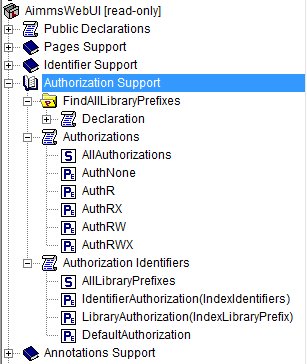
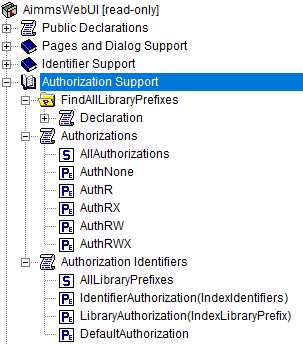
Changed structure for Dialog pages and Webui Lib section.

diff --git a/webui/library.rst b/webui/library.rst
@@ -30,25 +30,15 @@ Request Queue Declarations is used to manage the number of requests from WebUI.
 Public Pages Support Procedures:
 
 * GetAllPages - This procedure is runs everytime a page, side panel or dialog page is added to the page manager, which inturn updates the sets and identifiers in the Public Pages Support Declarations.
-* SidePanelOpen(pageId) - This procedure is used to open side panels via the model with respective pageIds. 
-* PageOpen(pageId) - This procedure is used to open/navigate to other pages in the application via the model. 
+* SidePanelOpen(pageId) - This procedure is used to open side panels via the model with respective pageIds as the argument. 
+* PageOpen(pageId) - This procedure is used to open/navigate to other pages in the application via the model, by passing the respecive pageId as the argument. 
+* OpenExternalLink(url) - This procedure is used to open external links, by passing the URL as the argument. These links will open in a new tab in the browser.
 
 Public Dialog Support Procedures:  
 
-* RequestPerformWebUIDialog(title,message,actions,onDone)
-* `DialogPageOpen(pageId,title,actions,onDone) <page-manager.html#configuring-dialog-pages>`_ - This procedure is used to open dialog pages via the model, either by clicking on a button or some interaction in the model.
+* `RequestPerformWebUIDialog(title,message,actions,onDone) <#requestperformwebuidialog>`_ - This procedure is used to display dialog message, such as alerts or warnings.
+* `DialogPageOpen(pageId,title,actions,onDone) <#dialogpageopen>`_ - This procedure is used to open `dialog pages <page-manager.html#dialog-pages>`_ via the model, either by clicking on a button or some interaction in the model.
 * ResetWebUIDialogs - This procedure emptys the RequestQueue and the Requests set in the Request Queue Declarations. 
-
-
-Authorization Support
-=====================
-
-The WebUI System Library includes a section called "Authorization Support" containing identifier declarations which can be used to introduce authorization into your WebUI app:
-
-.. image:: images/AuthorizationSupportSection.png
-    :align: center
-
-The usage of these identifiers is discussed in the `Authorizing model content for use in the WebUI <creating.html>`_ section of this documentation.
 
 requestPerformWebUIDialog
 =========================
@@ -83,3 +73,44 @@ Remarks
 
 * When you just want to send a message to the user, you should provide a single action (e.g. :token:`Actions := {'OK'}`) and you can use :token:`''` for the :token:`onDone` argument. In this case, no procedure is called, and the user can just close the 'dialog' by pressing the single action (or pressing the return/space key, which will press the default (last, highlighted) button).
 * You can use a translation file (e.g. ‘WebUI/resources/languages/<dialog_actions>.properties’) to provide translations for the various internal action names, containing, for example: :token:`discard-and-continue = Discard and continue`.
+
+
+DialogPageOpen
+==============
+
+You can call the procedure :token:`webui::DialogPageOpen` to invoke a `dialog page <page-manager.html#dialog-pages>`_ in a WebUI page. Along with opening the dialog page you can also configure the title and the buttons with a specific callback.
+
+Arguments
+---------
+
+This procedure has the following aguments:
+
+* :token:`pageId`: When a dialog page is created it is has a unique pageId. You can find all the dialog pageIds in the set AllDialogPages under the Public Pages Support Declarations in the `Pages and Dialog Support section <library.html#pages-and-dialog-support-section>`_ .   
+* :token:`title`: A string parameter which contains the text to be displayed as the title of the dialog box. If this is left blank, i.e "", it will display the dialog page name given during creation by default.
+* :token:`actions`: A set of custom actions. The elements of this set are represented as buttons in the message dialog and their text is the same as the action names. When an action is selected (button is clicked), it invokes the onDone procedure with the corresponding action as an argument. If this set is empty, the buttons will have "Cancel" and "OK" by default respectively. 
+* :token:`onDone`: A reference to a procedure in the set AllProcedures. The procedure should have a single input string parameter as argument. When a user selects an action, the onDone procedure is invoked with the action name as its argument.
+
+
+Example
+-------
+
+As an example, the following code will display the dialog in the picture below it and will call the procedure :token:`PerformAction(TheAction)` upon clicking one of its buttons (with :token:`TheAction` being an input string parameter argument):
+
+.. code::
+
+    MyActions := data { Yes, No, Cancel };
+    webui::requestPerformWebUIDialog("Save", "Do you want to save your data?", MyActions, 'PerformAction');
+
+.. image:: images/savedialog.jpg
+    :align: center
+
+
+Authorization Support
+=====================
+
+The WebUI System Library includes a section called "Authorization Support" containing identifier declarations which can be used to introduce authorization into your WebUI app:
+
+.. image:: images/AuthorizationSupportSection.png
+    :align: center
+
+The usage of these identifiers is discussed in the `Authorizing model content for use in the WebUI <creating.html>`_ section of this documentation.

diff --git a/webui/page-manager.rst b/webui/page-manager.rst
@@ -471,18 +471,6 @@ Dialog Pages are used for intermediate actions or steps in your workflow. You ca
 
 A dialog page has 3 predefined sizes; Small, Medium and Large. Dialog pages can have upto 3 buttons, 2 of which are shown by default, typically Cancel and OK. The text and callback procedures for these buttons can be controlled via the DialogPageOpen function. 
 
-.. image:: images/dialog_diffsizes_small.png
-			:align: center
-			:scale: 50
-
-.. image:: images/dialog_diffsizes_medium.png
-			:align: center
-			:scale: 50
-
-.. image:: images/dialog_diffsizes_large.png
-			:align: center
-			:scale: 50
-
 When a dialog box is open the user can only interact with the dialog. The dialog box can only be closed by clicking on one of the actions.   
 
 
@@ -499,17 +487,31 @@ Click on the Insert Dialog page icon |dialog| and give it any name you desire. Y
 
 Dialog pages can be added to any level in the page tree, just like any normal page. Unlike Pages, Dialog pages do not appear in the Menu (navigation) and can only be accessed via the page manager. Dialog pages have the same options of a page or side panel i.e Rename, Delete, etc. You can also move the dialog pages the same way pages can be moved.
 
+You can chose a size for the dialog page, the dimension for which are:
+
+#.  Small: Width = 3 Columns, Height = 2 Rows. Here you fit add widgets with dimensopns that addup to 3 columns and 2 rows. eg: 1 widget with width = 3 columns or less and height = 2 rows or less OR 2 widgets with width = 3 colums or less and height = 1 row.
+
+	.. image:: images/dialog_diffsizes_small.png
+				:align: center
+				:scale: 50
+
+#.  Medium: Width = 6 Columns, Height = 3 Rows. Here you fit add widgets with dimensopns that addup to 6 columns and 3 rows. 
+
+	.. image:: images/dialog_diffsizes_medium.png
+				:align: center
+				:scale: 50
+
+#.  Large: Width = 8 Columns, Height = 3 Rows .  Here you fit add widgets with dimensopns that addup to 8 columns and 3 rows.
+
+	.. image:: images/dialog_diffsizes_large.png
+				:align: center
+				:scale: 50
+
 The title and action buttons on the dialog page can be configured via the model. These are placeholders to depict how the atual dialog page would look. This also gives an idea of the usable area for adding widgets in the dialog page.
 
 .. image:: images/dialog_placeholders.png
 			:align: center
 			:scale: 75
-
-The dimension for each of the dialog pages are:
-
-#.  Small: Width = 3 Columns, Height = 2 Rows. Here you fit add widgets with dimensopns that addup to 3 columns and 2 rows. eg: 1 widget with width = 3 columns or less and height = 2 rows or less OR 2 widgets with width = 3 colums or less and height = 1 row. 
-#.  Medium: Width = 6 Columns, Height = 3 Rows. Here you fit add widgets with dimensopns that addup to 6 columns and 3 rows. 
-#.  Large: Width = 8 Columns, Height = 3 Rows .  Here you fit add widgets with dimensopns that addup to 8 columns and 3 rows.
 
 .. note:: 
 	
@@ -539,14 +541,7 @@ When the height of a widget exceeds the height of the dialog page, the widget wi
 Configuring dialog pages
 ++++++++++++++++++++++++
 
-The procedure DialogPageOpen(pageId,title,actions,onDone) declared inside the Public Dialog Support Procedures in `Pages and Dialog Support section <library.html#pages-and-dialog-support-section>`_ has needs to be used to configuring dialog pages. 
-
-The procedure has 4 arguments:
-
-#.  *pageId*: When a dialog page is created it is has a unique pageId. You can find all the dialog pageIds in the set AllDialogPages under the Public Pages Support Declarations in the `Pages and Dialog Support section <library.html#pages-and-dialog-support-section>`_ .   
-#.  *title*: A string parameter which contains the text to be displayed as the title of the dialog box. If this is left blank, i.e "", it will display the dialog page name given during creation by default.    
-#.  *actions*: A set of custom actions. The elements of this set are represented as buttons in the message dialog and their text is the same as the action names. When an action is selected (button is clicked), it invokes the onDone procedure with the corresponding action as an argument. If this set is empty, the buttons will have "Cancel" and "OK" by default respectively. 
-#.  *onDone*: A reference to a procedure in the set AllProcedures. The procedure should have a single input string parameter as argument. When a user selects an action, the onDone procedure is invoked with the action name as its argument.  
+The procedure `DialogPageOpen(pageId,title,actions,onDone) <library.html#dialogpageopen>`_ needs to be used to invoke dialog pages on the desired page. 
 
 An example of the procedure with declarations would result in:
 
